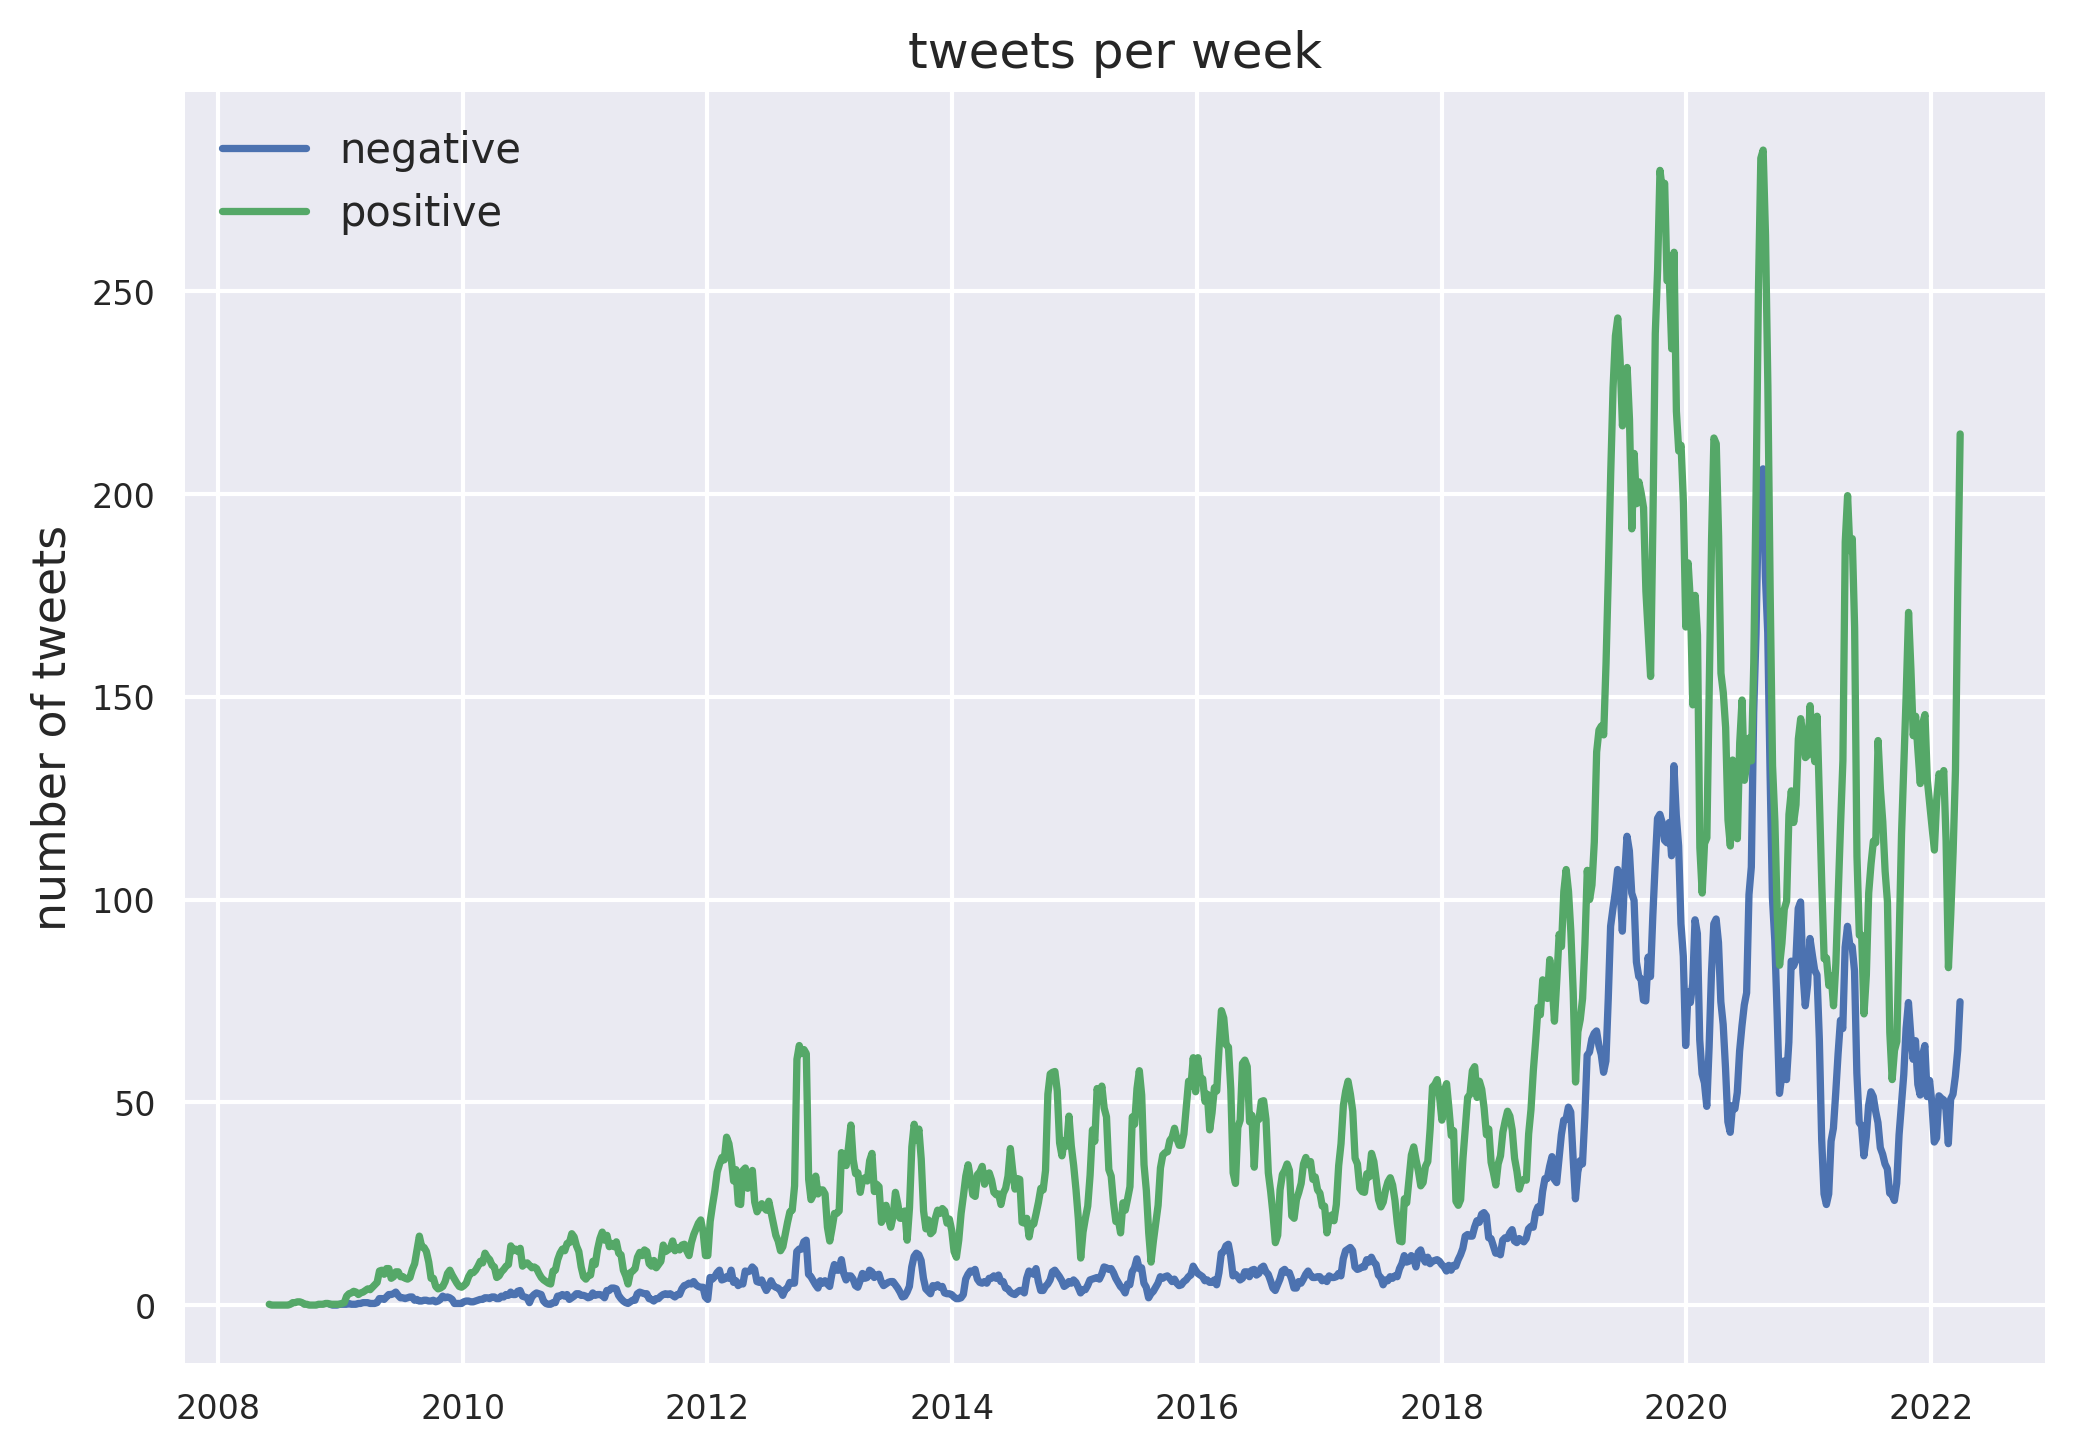
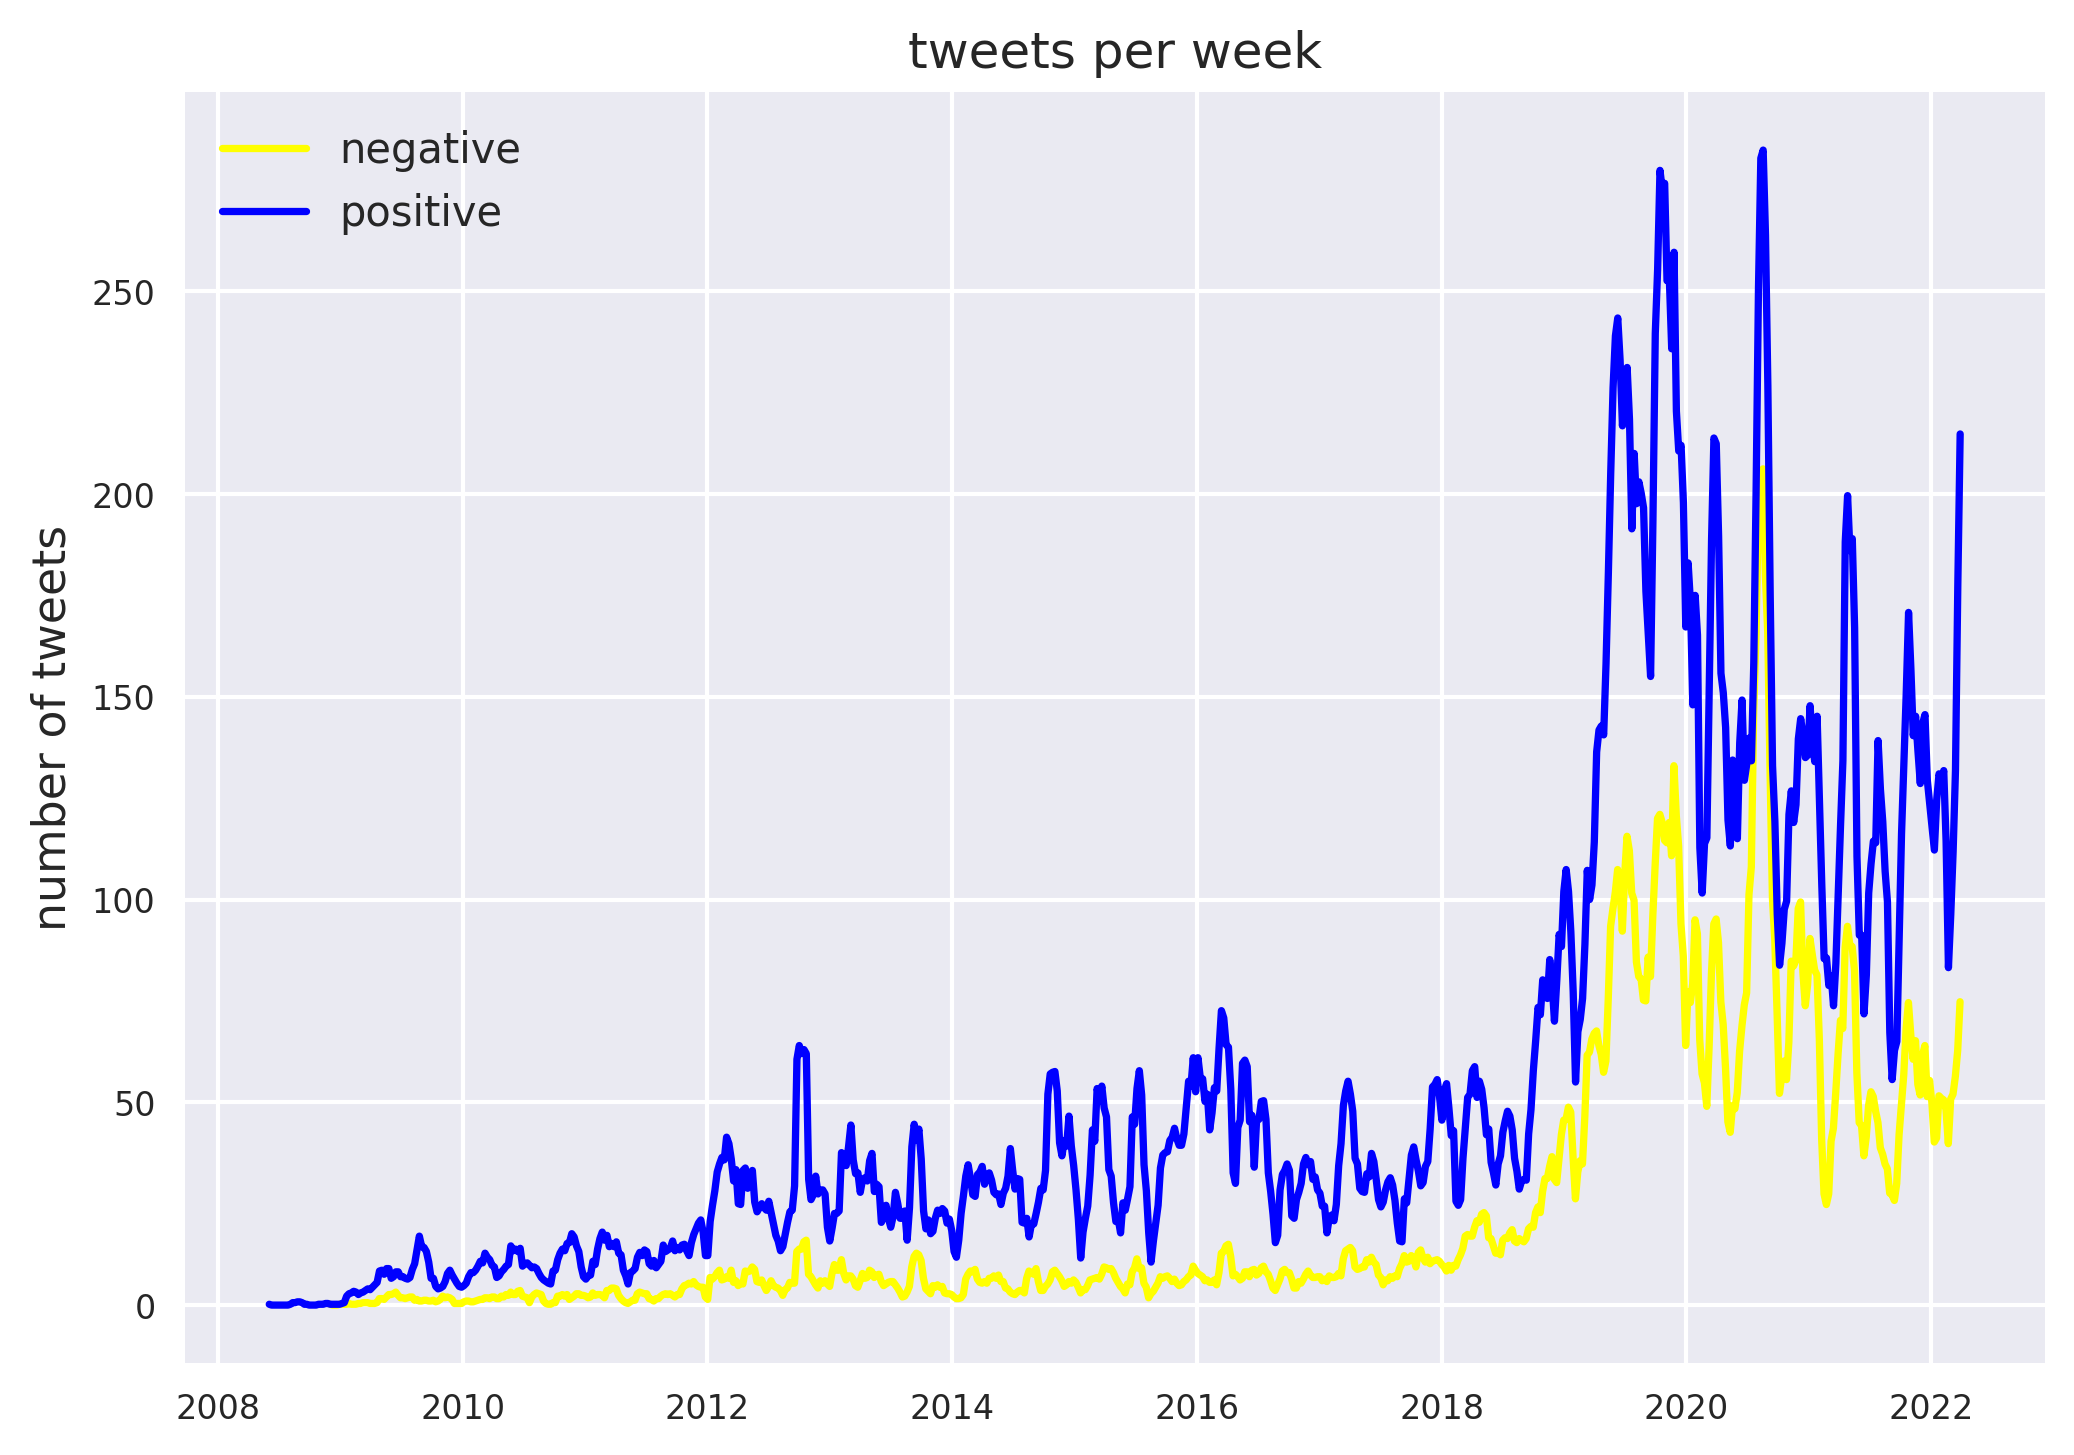
added specifically blue yellow calls. this might be very wrong

Changed region(s): [[0.1543, 0.0928, 0.9566, 0.8969], [0.0926, 0.0928, 0.1543, 0.1546]]

diff --git a/fig/sentiment_over_time.py b/fig/sentiment_over_time.py
@@ -93,8 +93,8 @@ flat0 = np.convolve(flat0, np.ones(N)/N, mode = 'valid')
 flat1 = np.convolve(flat1, np.ones(N)/N, mode = 'valid')
 print(np.shape(flat0))
 
-ax.plot(week_nums0, flat0[:len(week_nums0)], label='negative')
-ax.plot(week_nums1, flat1[:len(week_nums1)], label='positive')
+ax.plot(week_nums0, flat0[:len(week_nums0)], label='negative', color='yellow')
+ax.plot(week_nums1, flat1[:len(week_nums1)], label='positive', color='blue')
 plt.ylabel('number of tweets')
 plt.title('tweets per week')
 plt.legend()
